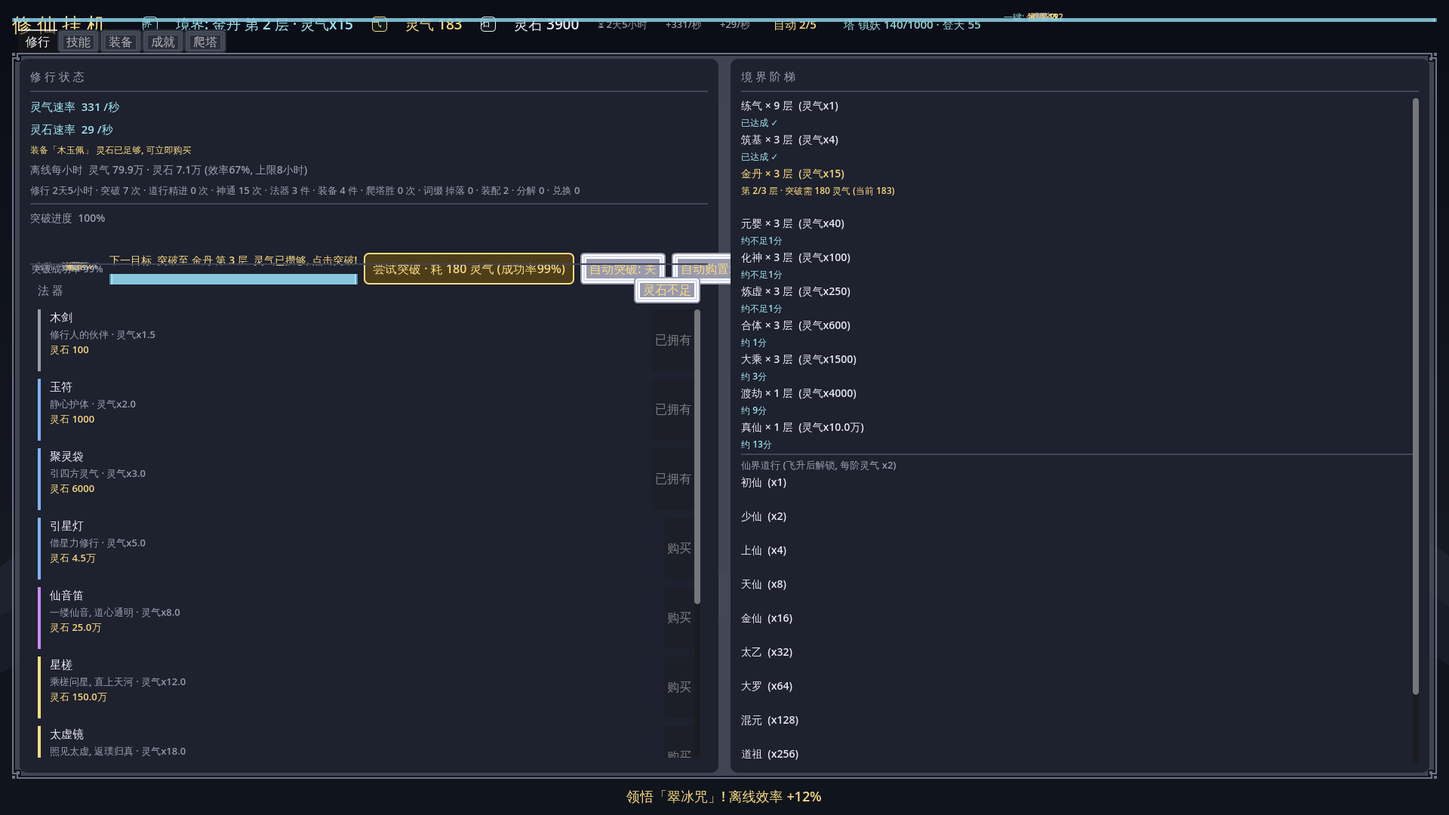
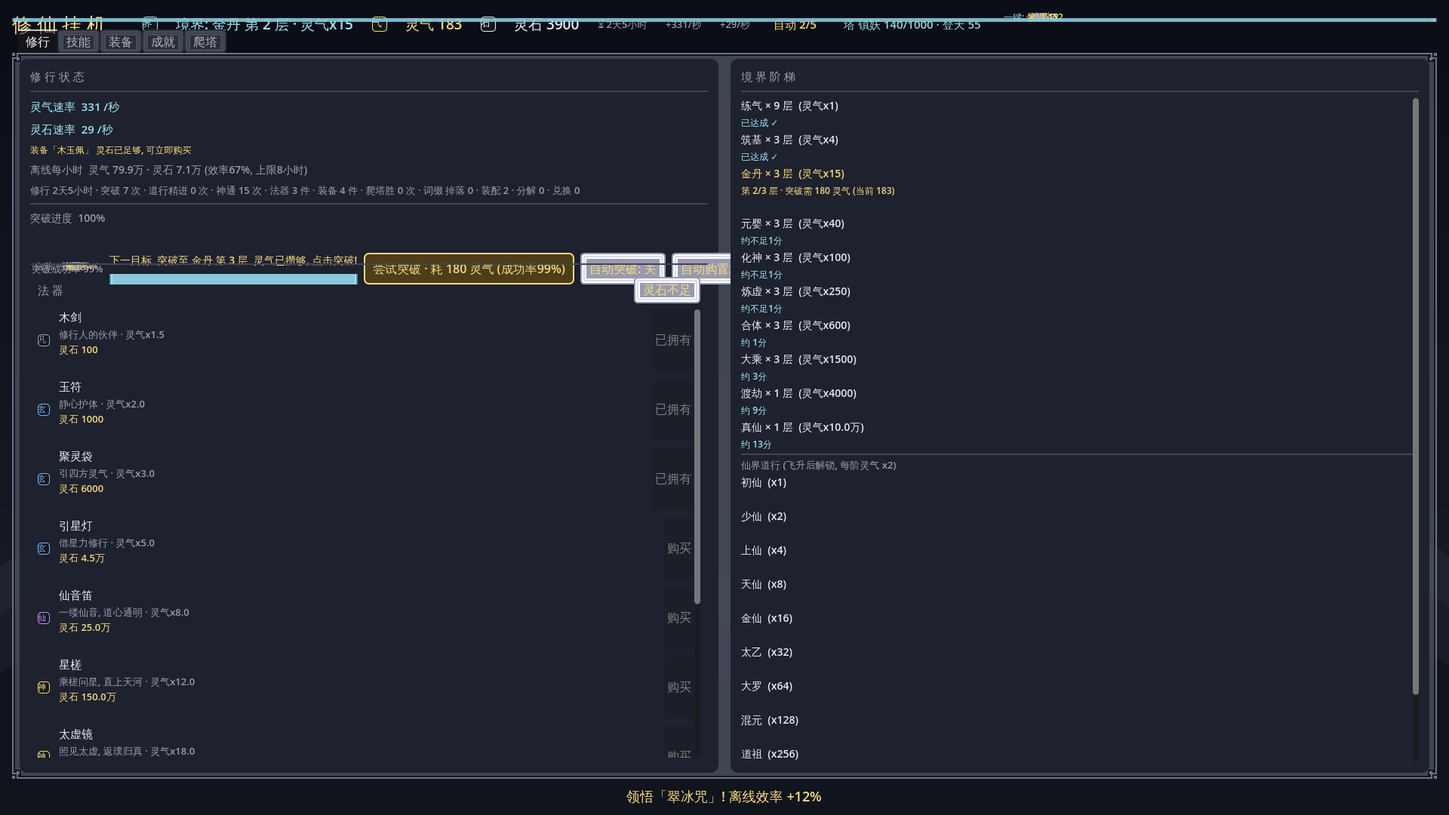
feat(打磨-138): 品质徽章 16px 单字徽章(凡~神) — 行首4px色条升级, 与顶栏资源图标同风格 tier_badge_char 数据接口(与tier_name首字同源); _add_tier_badge 单点构建 3处调用; 法器价格档 0/2/5/6 口径不变 selftest 10982/ui_test 3464/stress 646/冒烟 0 报错; Xvfb 5 张商店截图重跑入帧

diff --git a/README.md b/README.md
@@ -60,9 +60,9 @@ PROJECT_PLAN.md          # 项目计划
 
 ```bash
 ~/bin/godot --headless --path .            # 无头冒烟 (应无报错, 会一直挂机运行)
-~/bin/godot --headless --path . -s res://scripts/selftest.gd   # 全流程自测 (学习/购买/穿戴/冷却/存读档/倍率/数值曲线/成就/飞升后道行/装备/技能浮动灵气速率增量/神通爆发预览/一键神通/神通冷却完毕就绪事件/神通冷却进度比例/突破成功率tooltip预期成本/突破失败浮动预期成本/突破成功浮动新境界成功率/离线收益启动金色浮动/自动突破/自动购置/自动施展/自动领悟/自动系列状态汇总/自动系列开关启动提示/顶栏自动系列状态徽标/顶栏自动徽标点击直达/顶栏一键系列状态汇总徽标/一键汇总徽标段悬浮明细/挂机时长顶栏常显/主资源速率顶栏常显/灵石速率顶栏常显/下一目标渐变进度条/挂机时长悬停离线收益预估/自动购置按钮tooltip动态段/自动突破按钮tooltip动态段/自动施展自动领悟按钮tooltip动态段/顶栏主资源行悬停下一目标tooltip/一键挂机/一键挂机按钮tooltip动态段/顶栏挂机状态徽标点击直达/成就页只看未解锁筛选/M5-4镇妖塔通关态(称号+灵石100万+永久atk/def+15%增益, 守塔模式幂等/顶栏称号徽标/存档旧档兜底)/M5-1爬塔数据层(18特性/145怪物/镇妖塔1000层表)/M6-1 DIY装备词缀数据层(120词缀 6池x5品质x4变体+掉落概率表20桶)/M6-2 DIY词缀逻辑层(库存/装配/拆卸/分解/槽位升级/套装共鸣/属性公式接入/塔掉落结算/存档旧档兜底)/M6-3 DIY词缀UI数据层(评分/装配预览/收集成就/一键装配/分解全部/存档seen_affixes)/收集进度一览词缀类(五类+总计419/词缀只增不减)/塔战斗词缀掉落底部消息展示(打磨-94 affix_drop_text)/自动爬塔胜局汇总底部消息+会话统计状态行(打磨-95 auto_tower_last_text)/词缀材料系统(打磨-96 分解产出材料1+品质档/材料兑换指定池品质词缀保底获取/背包满普通自动入料/槽位升级消耗200材料/affix_best_variant_id/存档affix_materials旧档兜底)/背包容量成就解锁(打磨-97 bag_40百宝囊:曾入包满30格容量30->40/bag_expand配置派生态不存档/容量行tooltip动态段/成就进度比例/存档ach_done往返+旧档30兜底)/选中词缀评分Δ实时预览+评分小数显示修复(打磨-98 fmt_score<1e4两位小数>=1e4万档/affix_sel_delta_text只读接口:空槽增益与已装槽换装净增益取最大/无正增益与未选中空串/装备取前3件+等N件汇总)/一键强化槽位(打磨-99 affix_upgrade_all批量接口:道祖期批量3->4槽200材料/件/0变更幂等不消耗/未道祖期与材料不足与全满级与无拥有拒绝/结果结构count-upgraded-cost-materials前后)/奖励类特性结算接入(打磨-100 18特性全量:材料囊x2材料/幸运50%全奖励x2/不屈x1.2/词缀袋掉率+10%/富矿灵石x2, 材料掉落=1+怪物种mat_w整件入账, 会话材料累计+状态行材料段, 存档读档归零, 只读无副作用)/一键兑换(打磨-101 affix_exchange_all批量接口:材料连兑买不起或背包满为止复用affix_exchange真实路径/0可兑幂等不消耗/背包满中途停止/返回count-id-cost-materials前后/空池结构完整不崩溃/背包留1空只兑1件封顶)/登天梯500层后全部怪物默认魔化(打磨-102 get_endless_floor 500+非Boss层魔化口径同精英:数值x3+追加1层取模确定性特性+「魔化·」前缀+奖励x2/Boss层独立x10不叠魔化/500前旧口径不变)/登天梯里程碑宝箱保底高品质词缀(打磨-103 来源配置min_tier=稀有+affix_roll_drop钳制只升不降/其余来源旧口径不变/里程碑Boss层怪物卡tooltip展示保底段)/天怨特性登天梯HP生效(打磨-104 heaven_grudge仅无尽塔HP x(1+层数/400) 数据驱动/monster_stats幂等防tooltip二次叠乘/怪物卡tooltip天怨生效段)/战斗时长预估行(打磨-105 tower_rounds_line只读接口:ceil(怪HP/预估伤害)伤害取最不利0.9档/败预测追加本层战力不足/回合>1e12走fmt万档防溢出/剧毒-15%联动/道祖量级锚定/只读无副作用)/怪物卡tooltip材料掉落预估(打磨-106 掉落展示灵石材料词缀材料段展示位:tooltip追加奖励材料N行=向上取整stats mats与战斗结算同源/修tower_monster_stats幂等再算丢mats:stats字典保留species键+mats沿用已结算值/材料囊x2层幂等恒等/空记录mats=0不展示行/只读无副作用)/塔战斗胜利浮动提示(打磨-107 tower_win_float_text只读接口:入参try_tower_challenge结算字典,败局与缺win字段空串,段=塔名层怪名+灵石+材料+幸运不屈+每日首胜+词缀件数,0奖励无对应段/只读无副作用)/怪物种reward权重stone_w与affix_w结算接入(打磨-108 M5掉落差异化灵石与词缀段落地:stone_w乘层表灵石进tower_monster_stats stone首算叠+stats幂等沿用不二重/affix_w作词缀掉率base乘数affix_roll_drop有效掉率=来源base x affix_w + bonus_chance clamp 0..1/Boss无种层权重1.0旧口径兜底/怪物卡tooltip种掉落权重行)装备按评分排序数据层(打磨-109 M6规格装备列表按评分排序:equip_score_sort_order评分降序同分id升序确定性/单调性全表非增/词缀装配评分联动位置升/拆卸回退/默认状态序打磨-22口径不变/只读无副作用)/修行统计词缀段(打磨-110 stats_text追加词缀掉落装配分解兑换4段:埋点打磨-96/99/101已有展示位补齐/只读拼接无新存档字段/_load_stats兜底0/存档往返恒等/主场景统计行tooltip口径说明)/爬塔战力对比DEF段(打磨-111 M5规格玩家atk/def vs怪物DEF段:tower_power_def_line只读接口玩家DEF=player_def汇总剧毒不生效怪物DEF同源/双塔卡片战力对比行下12px DEF行/刷新键玩家DEF 0.5档)/换装对比战力评分Δ段(打磨-112 M6规格当前穿戴vs备选实时对比缺口:equip_swap_hint追加d_atk/d_def/score_d三段=新-旧atk/def池与equip_score差/灵气灵石攻击防御负数带负号0省略评分段恒带+0.00无变化信号/全无变化空text旧口径/只读无副作用)/爬塔战力构成tooltip(打磨-113 M5规格境界x功法x装备x塔专属加成构成展示位:GameData.tower_power_compose_tip只读接口五段构成境界基础x功法池x装备池含词缀x法器池x塔专属通关增益+套装共鸣/汇总行同源player_atk/def/剧毒只减有效ATK不入基础构成/功法装备法器池变化动态同步/共鸣x1.06触发/通关x1.15/境界40^1基础80档/飞升道祖进度17/只读连读无副作用)/镇妖塔通关大奖顶级传说词缀x3(打磨-114 M5规格一次性大奖顶级词缀x3落地:原神品口径M6落地后=最高档传说,GameData.tower_clear_affix_ids只读接口每池最高价值变体按价值降序取前3/try_tower_challenge首通1000层结算发放3件传说入包+背包满折算材料1+品质档/塔_clear_reward_text追加顶级传说词缀xN段+背包满折算材料段/胜利浮动与自动爬塔文案追加大奖词缀段/守塔幂等不重发/结果字典新增clear_reward_affixes+clear_reward_mat/旧档兼容)/登天梯里程碑Boss里程碑宝箱标记+胜利浮动宝箱段(打磨-115 M5规格每100层里程碑Boss+宝箱保底稀有+词缀展示位:try_tower_challenge结果字典新增is_milestone=登天梯100倍数boss胜局与drop_src=milestone同口径/塔win_float_text追加里程碑宝箱保底稀有+词缀段/仅登天梯生效镇妖塔与精英层与普通层与败局恒false/只读无副作用)/登天梯每日首胜奖励当日状态行(打磨-116 M5规格每日首胜奖励展示位:tower_daily_date==今日即已触发与结算分支同口径/tower_daily_first_line只读两态接口已触发明日再触发与未触发0.5x口径说明/tower_status_line已触发追加段未触发不追加/当日再胜新纪录不重复发放幂等/跨日日期非今日段消失可再触发/只读连读无副作用)/怪物卡tooltip属性偏向类型行(打磨-117 M5规格120怪物种stat_bias血牛狂攻铁壁均衡展示位:tower_monster_stats追加bias_cn/category_name字段stats字典携带幂等原始记录从怪物种解析Boss无种空串兜底/tower_monster_tip特性行后追加类型·偏向行仅数据层展示只读无副作用)/镇妖塔主题与最终Boss分层标记+tooltip分层行(打磨-118 M5规格25专属Boss20小x10+4主题x20+最终Boss镇妖塔主x50分层展示位:tower_boss_tier三态只读接口small/theme/final非Boss与登天梯里程碑Boss空串不展示/TOWER_BOSS_MULT_SMALL_THEME_FINAL常量单一来源与gen_data同口径数值已落表只展示不改数值/tower_monster_tip特性行后追加分层行空串不展示+name行追加主题Boss与最终Boss后缀小Boss无后缀防重复/只读无副作用)/怪物卡tooltip精英与魔化结构行(打磨-119 M5规格每10层精英数值x3掉落x2+登天梯500层后所有怪物默认魔化的结构奖励倍率展示位:数值与掉落已随层表结算只给口径说明,tower_struct_line只读接口双塔精英同结构魔化前缀+追加1额外特性+x3/x2与TOWER_ELITE_MULT_REWARD常量同源登天梯500+非Boss层恒魔化ENDLESS_DEMON_FLOOR/非精英与Boss层空串不叠/分层行后追加结构行只读无副作用)/怪物卡tooltip词缀掉落概率行(打磨-120 M6规格掉落来源普通5%精英20%Boss1~3件里程碑宝箱1~2件展示位缺口:结算口径affix_roll_drop已落地但tooltip无概率展示,tower_affix_drop_line只读接口=来源base x种affix_w+词缀袋+10%同表达式clamp 100%转1~N件/败局不掉词缀标注仅胜利/普通层百分比档精英base20%Boss100%1~3件里程碑100%1~2件/stats字典路径幂等恒等不丢/状态行tooltip词缀掉落口径说明)/双塔卡片下一里程碑行(打磨-121 M5规格每100层天阶里程碑进度展示位:tower_milestone_line只读接口距下个精英层/小Boss/主题Boss/最终Boss/登天梯里程碑Boss还有几层,本层即是标注就在本层,登天梯100倍数下一里程碑Boss+宝箱保底稀有+/镇妖塔通关守塔模式空串隐藏/双塔卡片回合预估行下12px里程碑行文本变化才刷空串隐藏/tooltip口径说明)/自动爬塔会话词缀段(打磨-122 挂机自动爬塔战斗掉落词缀会话累计展示位:_auto_tower_affixes会话累计内存态读档归零,状态行与auto_tower_session_text追加词缀N件段0不追加旧口径/通关大奖词缀另段不计入/刷新键并入会话材料词缀累计/状态行tooltip口径说明)/爬塔战力对比胜阈值缺口行(打磨-123 败预测时玩家不知需多少ATK才胜:tower_win_threshold_line只读接口,阈值=怪物ATK x 0.85与tower_power_line判定口径同源单点,缺口=阈值-当前有效ATK剧毒已计入,fmt_score口径<1e4两位小数防fmt int截断,弱玩家数据锚定镇妖塔第12层判定败缺口收窄功法/装备池变化动态恒等剧毒放大/登天梯同口径/只读连读恒定无副作用)/挑战按钮tooltip动态段(打磨-124 点击前悬停不知本层胜败预测与胜利结算内容:tower_challenge_tip只读接口=层标题+tower_power_line胜负预测+败预测追加tower_win_threshold_line阈值/缺口行/胜预测追加胜利结算预览段(灵石表值幸运不屈属结算随机不入预览+材料向上取整同怪物卡+词缀掉率同tower_affix_drop_line仅胜利结算+登天梯每日首胜0.5x口径+镇妖塔1000层首通一次性大奖口径未通关未发放态+剧毒怪战胜减攻警告),main.gd _tw_btn_tips缓存文本变化才刷)/自动爬塔开关tooltip会话统计段(打磨-125 挂机期间自动爬塔胜局/灵石/材料/词缀累计悬停展示位:开关tooltip动态段追加本次运行会话行=auto_tower_session_text单源恒等不二次拼接/0胜局显口径说明(内存态不持久化读档归零)防误读为断档/真实链路道祖自动双塔全胜文案随结算动态同步/只读连读恒定无副作用),主场景 冒烟 0 报错 回归 全过, main.gd _tw_auto_btn tooltip缓存文本变化才刷/双塔卡片下一里程碑ETA行(打磨-127 战斗节奏≤2秒/层时间预期:tower_milestone_eta只读接口=层距x本层预估回合[tower_rounds_line同源最不利0.9档]x2s/层,7天+封顶,败预测显战力不足提示,守塔模式/无下一里程碑空串,目标解析抽单点_tower_milestone_target与tower_milestone_line文案同源恒等/双塔卡片里程碑行下12px ETA行文本变化才刷/刷新键并入通关态感知守塔翻转/tooltip口径说明/动态同步升层剧毒强玩家), main.gd _tw_milestone_eta_labels双塔标签缓存/登天梯段进度(打磨-129 tower_endless_mile_ratio单点口径(层%100)/100,100倍数满条过层绕回<1钳制1层,1..99严格单调2000层扫描区间[0.01,1.0]只读连读无副作用)/顶栏双塔进度徽标(打磨-130 挂机扫视顶栏爬塔进度展示位:tower_progress_badge_text只读接口=塔镇妖N/1000(通关)+登天M,双塔均0层空串UI隐藏防空占位与tower_status_line同源字段/通关追加(通关)标注/登天跨档动态同步/tower_progress_badge_tip口径说明+点击直达/只读连读恒定无副作用/顶栏双塔进度徽标tooltip动态段(打磨-131 会话文案单源复用auto_tower_session_text:开关门控+会话空门控/开关关会话保留/只读无副作用)/自动爬塔会话登天梯新纪录累计段(打磨-132 挂机回来看会话不知本次运行创几个新纪录:_auto_tower_new_records次数+_auto_tower_new_best最高层内存态读档归零同灵石口径/_try_auto_tower按结算字典new_record字段累计仅登天梯胜局计入镇妖塔败局恒false/auto_tower_session_text追加新纪录N次最高第M层段0新纪录旧口径0胜局分支恒无段状态行单源复用自动覆盖/刷新键并入会话新纪录次数防漏刷/状态行tooltip口径说明)/自动爬塔会话里程碑宝箱累计段(打磨-133 挂机回来看会话不知本次运行触发几次里程碑宝箱:_auto_tower_milestones内存态读档归零同灵石口径/_try_auto_tower按结算字典is_milestone字段累计仅登天梯100倍数Boss胜局计入镇妖塔普通层败局恒false/auto_tower_session_text追加里程碑宝箱N次段0不追加旧口径段在词缀后新纪录前状态行单源复用自动覆盖/刷新键并入会话宝箱次数防漏刷/状态行tooltip口径说明), 10952 项, 退出码 0=通过)
+~/bin/godot --headless --path . -s res://scripts/selftest.gd   # 全流程自测 (学习/购买/穿戴/冷却/存读档/倍率/数值曲线/成就/飞升后道行/装备/技能浮动灵气速率增量/神通爆发预览/一键神通/神通冷却完毕就绪事件/神通冷却进度比例/突破成功率tooltip预期成本/突破失败浮动预期成本/突破成功浮动新境界成功率/离线收益启动金色浮动/自动突破/自动购置/自动施展/自动领悟/自动系列状态汇总/自动系列开关启动提示/顶栏自动系列状态徽标/顶栏自动徽标点击直达/顶栏一键系列状态汇总徽标/一键汇总徽标段悬浮明细/挂机时长顶栏常显/主资源速率顶栏常显/灵石速率顶栏常显/下一目标渐变进度条/挂机时长悬停离线收益预估/自动购置按钮tooltip动态段/自动突破按钮tooltip动态段/自动施展自动领悟按钮tooltip动态段/顶栏主资源行悬停下一目标tooltip/一键挂机/一键挂机按钮tooltip动态段/顶栏挂机状态徽标点击直达/成就页只看未解锁筛选/M5-4镇妖塔通关态(称号+灵石100万+永久atk/def+15%增益, 守塔模式幂等/顶栏称号徽标/存档旧档兜底)/M5-1爬塔数据层(18特性/145怪物/镇妖塔1000层表)/M6-1 DIY装备词缀数据层(120词缀 6池x5品质x4变体+掉落概率表20桶)/M6-2 DIY词缀逻辑层(库存/装配/拆卸/分解/槽位升级/套装共鸣/属性公式接入/塔掉落结算/存档旧档兜底)/M6-3 DIY词缀UI数据层(评分/装配预览/收集成就/一键装配/分解全部/存档seen_affixes)/收集进度一览词缀类(五类+总计419/词缀只增不减)/塔战斗词缀掉落底部消息展示(打磨-94 affix_drop_text)/自动爬塔胜局汇总底部消息+会话统计状态行(打磨-95 auto_tower_last_text)/词缀材料系统(打磨-96 分解产出材料1+品质档/材料兑换指定池品质词缀保底获取/背包满普通自动入料/槽位升级消耗200材料/affix_best_variant_id/存档affix_materials旧档兜底)/背包容量成就解锁(打磨-97 bag_40百宝囊:曾入包满30格容量30->40/bag_expand配置派生态不存档/容量行tooltip动态段/成就进度比例/存档ach_done往返+旧档30兜底)/选中词缀评分Δ实时预览+评分小数显示修复(打磨-98 fmt_score<1e4两位小数>=1e4万档/affix_sel_delta_text只读接口:空槽增益与已装槽换装净增益取最大/无正增益与未选中空串/装备取前3件+等N件汇总)/一键强化槽位(打磨-99 affix_upgrade_all批量接口:道祖期批量3->4槽200材料/件/0变更幂等不消耗/未道祖期与材料不足与全满级与无拥有拒绝/结果结构count-upgraded-cost-materials前后)/奖励类特性结算接入(打磨-100 18特性全量:材料囊x2材料/幸运50%全奖励x2/不屈x1.2/词缀袋掉率+10%/富矿灵石x2, 材料掉落=1+怪物种mat_w整件入账, 会话材料累计+状态行材料段, 存档读档归零, 只读无副作用)/一键兑换(打磨-101 affix_exchange_all批量接口:材料连兑买不起或背包满为止复用affix_exchange真实路径/0可兑幂等不消耗/背包满中途停止/返回count-id-cost-materials前后/空池结构完整不崩溃/背包留1空只兑1件封顶)/登天梯500层后全部怪物默认魔化(打磨-102 get_endless_floor 500+非Boss层魔化口径同精英:数值x3+追加1层取模确定性特性+「魔化·」前缀+奖励x2/Boss层独立x10不叠魔化/500前旧口径不变)/登天梯里程碑宝箱保底高品质词缀(打磨-103 来源配置min_tier=稀有+affix_roll_drop钳制只升不降/其余来源旧口径不变/里程碑Boss层怪物卡tooltip展示保底段)/天怨特性登天梯HP生效(打磨-104 heaven_grudge仅无尽塔HP x(1+层数/400) 数据驱动/monster_stats幂等防tooltip二次叠乘/怪物卡tooltip天怨生效段)/战斗时长预估行(打磨-105 tower_rounds_line只读接口:ceil(怪HP/预估伤害)伤害取最不利0.9档/败预测追加本层战力不足/回合>1e12走fmt万档防溢出/剧毒-15%联动/道祖量级锚定/只读无副作用)/怪物卡tooltip材料掉落预估(打磨-106 掉落展示灵石材料词缀材料段展示位:tooltip追加奖励材料N行=向上取整stats mats与战斗结算同源/修tower_monster_stats幂等再算丢mats:stats字典保留species键+mats沿用已结算值/材料囊x2层幂等恒等/空记录mats=0不展示行/只读无副作用)/塔战斗胜利浮动提示(打磨-107 tower_win_float_text只读接口:入参try_tower_challenge结算字典,败局与缺win字段空串,段=塔名层怪名+灵石+材料+幸运不屈+每日首胜+词缀件数,0奖励无对应段/只读无副作用)/怪物种reward权重stone_w与affix_w结算接入(打磨-108 M5掉落差异化灵石与词缀段落地:stone_w乘层表灵石进tower_monster_stats stone首算叠+stats幂等沿用不二重/affix_w作词缀掉率base乘数affix_roll_drop有效掉率=来源base x affix_w + bonus_chance clamp 0..1/Boss无种层权重1.0旧口径兜底/怪物卡tooltip种掉落权重行)装备按评分排序数据层(打磨-109 M6规格装备列表按评分排序:equip_score_sort_order评分降序同分id升序确定性/单调性全表非增/词缀装配评分联动位置升/拆卸回退/默认状态序打磨-22口径不变/只读无副作用)/修行统计词缀段(打磨-110 stats_text追加词缀掉落装配分解兑换4段:埋点打磨-96/99/101已有展示位补齐/只读拼接无新存档字段/_load_stats兜底0/存档往返恒等/主场景统计行tooltip口径说明)/爬塔战力对比DEF段(打磨-111 M5规格玩家atk/def vs怪物DEF段:tower_power_def_line只读接口玩家DEF=player_def汇总剧毒不生效怪物DEF同源/双塔卡片战力对比行下12px DEF行/刷新键玩家DEF 0.5档)/换装对比战力评分Δ段(打磨-112 M6规格当前穿戴vs备选实时对比缺口:equip_swap_hint追加d_atk/d_def/score_d三段=新-旧atk/def池与equip_score差/灵气灵石攻击防御负数带负号0省略评分段恒带+0.00无变化信号/全无变化空text旧口径/只读无副作用)/爬塔战力构成tooltip(打磨-113 M5规格境界x功法x装备x塔专属加成构成展示位:GameData.tower_power_compose_tip只读接口五段构成境界基础x功法池x装备池含词缀x法器池x塔专属通关增益+套装共鸣/汇总行同源player_atk/def/剧毒只减有效ATK不入基础构成/功法装备法器池变化动态同步/共鸣x1.06触发/通关x1.15/境界40^1基础80档/飞升道祖进度17/只读连读无副作用)/镇妖塔通关大奖顶级传说词缀x3(打磨-114 M5规格一次性大奖顶级词缀x3落地:原神品口径M6落地后=最高档传说,GameData.tower_clear_affix_ids只读接口每池最高价值变体按价值降序取前3/try_tower_challenge首通1000层结算发放3件传说入包+背包满折算材料1+品质档/塔_clear_reward_text追加顶级传说词缀xN段+背包满折算材料段/胜利浮动与自动爬塔文案追加大奖词缀段/守塔幂等不重发/结果字典新增clear_reward_affixes+clear_reward_mat/旧档兼容)/登天梯里程碑Boss里程碑宝箱标记+胜利浮动宝箱段(打磨-115 M5规格每100层里程碑Boss+宝箱保底稀有+词缀展示位:try_tower_challenge结果字典新增is_milestone=登天梯100倍数boss胜局与drop_src=milestone同口径/塔win_float_text追加里程碑宝箱保底稀有+词缀段/仅登天梯生效镇妖塔与精英层与普通层与败局恒false/只读无副作用)/登天梯每日首胜奖励当日状态行(打磨-116 M5规格每日首胜奖励展示位:tower_daily_date==今日即已触发与结算分支同口径/tower_daily_first_line只读两态接口已触发明日再触发与未触发0.5x口径说明/tower_status_line已触发追加段未触发不追加/当日再胜新纪录不重复发放幂等/跨日日期非今日段消失可再触发/只读连读无副作用)/怪物卡tooltip属性偏向类型行(打磨-117 M5规格120怪物种stat_bias血牛狂攻铁壁均衡展示位:tower_monster_stats追加bias_cn/category_name字段stats字典携带幂等原始记录从怪物种解析Boss无种空串兜底/tower_monster_tip特性行后追加类型·偏向行仅数据层展示只读无副作用)/镇妖塔主题与最终Boss分层标记+tooltip分层行(打磨-118 M5规格25专属Boss20小x10+4主题x20+最终Boss镇妖塔主x50分层展示位:tower_boss_tier三态只读接口small/theme/final非Boss与登天梯里程碑Boss空串不展示/TOWER_BOSS_MULT_SMALL_THEME_FINAL常量单一来源与gen_data同口径数值已落表只展示不改数值/tower_monster_tip特性行后追加分层行空串不展示+name行追加主题Boss与最终Boss后缀小Boss无后缀防重复/只读无副作用)/怪物卡tooltip精英与魔化结构行(打磨-119 M5规格每10层精英数值x3掉落x2+登天梯500层后所有怪物默认魔化的结构奖励倍率展示位:数值与掉落已随层表结算只给口径说明,tower_struct_line只读接口双塔精英同结构魔化前缀+追加1额外特性+x3/x2与TOWER_ELITE_MULT_REWARD常量同源登天梯500+非Boss层恒魔化ENDLESS_DEMON_FLOOR/非精英与Boss层空串不叠/分层行后追加结构行只读无副作用)/怪物卡tooltip词缀掉落概率行(打磨-120 M6规格掉落来源普通5%精英20%Boss1~3件里程碑宝箱1~2件展示位缺口:结算口径affix_roll_drop已落地但tooltip无概率展示,tower_affix_drop_line只读接口=来源base x种affix_w+词缀袋+10%同表达式clamp 100%转1~N件/败局不掉词缀标注仅胜利/普通层百分比档精英base20%Boss100%1~3件里程碑100%1~2件/stats字典路径幂等恒等不丢/状态行tooltip词缀掉落口径说明)/双塔卡片下一里程碑行(打磨-121 M5规格每100层天阶里程碑进度展示位:tower_milestone_line只读接口距下个精英层/小Boss/主题Boss/最终Boss/登天梯里程碑Boss还有几层,本层即是标注就在本层,登天梯100倍数下一里程碑Boss+宝箱保底稀有+/镇妖塔通关守塔模式空串隐藏/双塔卡片回合预估行下12px里程碑行文本变化才刷空串隐藏/tooltip口径说明)/自动爬塔会话词缀段(打磨-122 挂机自动爬塔战斗掉落词缀会话累计展示位:_auto_tower_affixes会话累计内存态读档归零,状态行与auto_tower_session_text追加词缀N件段0不追加旧口径/通关大奖词缀另段不计入/刷新键并入会话材料词缀累计/状态行tooltip口径说明)/爬塔战力对比胜阈值缺口行(打磨-123 败预测时玩家不知需多少ATK才胜:tower_win_threshold_line只读接口,阈值=怪物ATK x 0.85与tower_power_line判定口径同源单点,缺口=阈值-当前有效ATK剧毒已计入,fmt_score口径<1e4两位小数防fmt int截断,弱玩家数据锚定镇妖塔第12层判定败缺口收窄功法/装备池变化动态恒等剧毒放大/登天梯同口径/只读连读恒定无副作用)/挑战按钮tooltip动态段(打磨-124 点击前悬停不知本层胜败预测与胜利结算内容:tower_challenge_tip只读接口=层标题+tower_power_line胜负预测+败预测追加tower_win_threshold_line阈值/缺口行/胜预测追加胜利结算预览段(灵石表值幸运不屈属结算随机不入预览+材料向上取整同怪物卡+词缀掉率同tower_affix_drop_line仅胜利结算+登天梯每日首胜0.5x口径+镇妖塔1000层首通一次性大奖口径未通关未发放态+剧毒怪战胜减攻警告),main.gd _tw_btn_tips缓存文本变化才刷)/自动爬塔开关tooltip会话统计段(打磨-125 挂机期间自动爬塔胜局/灵石/材料/词缀累计悬停展示位:开关tooltip动态段追加本次运行会话行=auto_tower_session_text单源恒等不二次拼接/0胜局显口径说明(内存态不持久化读档归零)防误读为断档/真实链路道祖自动双塔全胜文案随结算动态同步/只读连读恒定无副作用),主场景 冒烟 0 报错 回归 全过, main.gd _tw_auto_btn tooltip缓存文本变化才刷/双塔卡片下一里程碑ETA行(打磨-127 战斗节奏≤2秒/层时间预期:tower_milestone_eta只读接口=层距x本层预估回合[tower_rounds_line同源最不利0.9档]x2s/层,7天+封顶,败预测显战力不足提示,守塔模式/无下一里程碑空串,目标解析抽单点_tower_milestone_target与tower_milestone_line文案同源恒等/双塔卡片里程碑行下12px ETA行文本变化才刷/刷新键并入通关态感知守塔翻转/tooltip口径说明/动态同步升层剧毒强玩家), main.gd _tw_milestone_eta_labels双塔标签缓存/登天梯段进度(打磨-129 tower_endless_mile_ratio单点口径(层%100)/100,100倍数满条过层绕回<1钳制1层,1..99严格单调2000层扫描区间[0.01,1.0]只读连读无副作用)/顶栏双塔进度徽标(打磨-130 挂机扫视顶栏爬塔进度展示位:tower_progress_badge_text只读接口=塔镇妖N/1000(通关)+登天M,双塔均0层空串UI隐藏防空占位与tower_status_line同源字段/通关追加(通关)标注/登天跨档动态同步/tower_progress_badge_tip口径说明+点击直达/只读连读恒定无副作用/顶栏双塔进度徽标tooltip动态段(打磨-131 会话文案单源复用auto_tower_session_text:开关门控+会话空门控/开关关会话保留/只读无副作用)/自动爬塔会话登天梯新纪录累计段(打磨-132 挂机回来看会话不知本次运行创几个新纪录:_auto_tower_new_records次数+_auto_tower_new_best最高层内存态读档归零同灵石口径/_try_auto_tower按结算字典new_record字段累计仅登天梯胜局计入镇妖塔败局恒false/auto_tower_session_text追加新纪录N次最高第M层段0新纪录旧口径0胜局分支恒无段状态行单源复用自动覆盖/刷新键并入会话新纪录次数防漏刷/状态行tooltip口径说明)/自动爬塔会话里程碑宝箱累计段(打磨-133 挂机回来看会话不知本次运行触发几次里程碑宝箱:_auto_tower_milestones内存态读档归零同灵石口径/_try_auto_tower按结算字典is_milestone字段累计仅登天梯100倍数Boss胜局计入镇妖塔普通层败局恒false/auto_tower_session_text追加里程碑宝箱N次段0不追加旧口径段在词缀后新纪录前状态行单源复用自动覆盖/刷新键并入会话宝箱次数防漏刷/状态行tooltip口径说明), 10982 项, 退出码 0=通过)
 ~/bin/godot --headless --path . -s res://scripts/stress_test.gd  # 数值曲线压力测试 (全境界/全品质梯度/解锁门槛一致性/后期溢出检查/M6-4 DIY词缀数值平衡[词缀曲线vs商店装备/满配20槽溢出/共鸣x1.4封顶/成功率离线clamp/掉落桶品质曲线/槽位升级材料扣减(打磨-96)/怪物种reward权重受控(打磨-108 120种stone_w 0.8~1.4与affix_w 0.2~0.8范围断言+同种跨层1.06指数灵石曲线单调有限)], 646 项, CI 可跑, 退出码 0=通过)
-~/bin/godot --headless --path . res://scenes/ui_test.tscn  # UI 断言 (成就进度条/收集条/品质色/一键系列/顶栏灵石可购进度/灵石行内联下一件可购/法器属性构成/装备/技能浮动灵气速率增量/神通爆发预览/单个神通施展浮动/一键神通/神通冷却完毕就绪浮动/神通冷却进度条/神通冷却完毕收口动画+按钮微光/一键施展浮动爆发总量/单个神通施展浮动爆发总量/冷却完毕就绪浮动爆发总量/突破成功率tooltip预期成本/突破失败浮动预期成本/突破成功浮动新境界成功率/离线收益启动金色浮动/自动突破/自动购置/自动施展/自动领悟/自动系列状态汇总/自动系列汇总行点击直达/自动系列开关启动提示/顶栏自动系列状态徽标/顶栏自动徽标点击直达/顶栏一键系列状态汇总徽标/一键汇总徽标段悬浮明细/挂机时长顶栏常显/主资源速率顶栏常显/灵石速率顶栏常显/下一目标渐变进度条/顶栏进度条点击直达/挂机时长悬停离线收益预估/自动购置按钮tooltip动态段/自动突破按钮tooltip动态段/自动施展自动领悟按钮tooltip动态段/顶栏主资源行悬停下一目标tooltip/一键挂机/一键挂机按钮tooltip动态段/顶栏挂机状态徽标点击直达/成就页只看未解锁筛选/M5-4镇妖塔通关态(称号徽标显隐/tooltip/点击直达爬塔页tab4+镇妖塔卡片金边高亮/未通关不发放/首通发放灵石大奖/守塔幂等/状态行称号)/M6-3 DIY词缀UI(词缀背包抽屉/槽位chips装配拆卸换装/评分行/一键最佳装配/分解全部/选中金边/tooltip评分行)/收集进度一览词缀类(6条mini进度条/总419/词缀点击直达装备页)/塔战斗词缀掉落底部消息展示(打磨-94 胜局boss必掉词缀消息段/败局无段)/自动爬塔胜局汇总底部消息+会话统计状态行(打磨-95 挂机期间胜局静默补位/变更事件节流/会话不持久化)/词缀材料兑换面板(打磨-96 材料行/6池x5品质筛选/兑换按钮文案节流/兑换入包最高价值变体/材料不足与背包满拒绝/toggle取消选中)/背包容量成就解锁UI(打磨-97 容量行30->40动态文案/tooltip未解锁还差N种与已解锁两态/成就解锁ach_done/40满拒绝/节流稳定/收尾回30)/选中词缀评分Δ预览行(打磨-98 未选中隐藏/空槽增益/换装取最大/全满换装净增益0.094精确/全平负隐藏/节流/只读无副作用/评分断言fmt_score适配)/一键强化槽位按钮(打磨-99 道祖期批量3->4:按钮节点+tooltip成本道祖期幂等口径/文案需道祖期·材料不足两档·xN计数/点击升4槽+扣200+chips重建4+底部消息+浮动/满级文案同步/再点幂等0变更不浮动/主循环文案同步/收尾干净基准)/一键兑换按钮(打磨-101 材料连兑买不起或背包满为止:按钮节点+tooltip连兑背包满幂等口径/材料0不足·x2计数文案/点击兑2件入包+扣50余20+底部消息+浮动/材料25 x1文案/背包满拒绝0件不扣不浮动/未选池文案/收尾干净基准)/登天梯500层后默认魔化(打磨-102 卡片副标题魔化口径/499层无魔化前缀/500层里程碑Boss标记不叠魔化/501层普通层怪物卡魔化前缀+战力对比按魔化数值预测败/弱玩家败停留无消耗/强玩家飞升道祖胜推进502+奖励+统计/502层恒魔化/收尾干净基准)/登天梯里程碑宝箱保底(打磨-103 卡片副标题宝箱口径/里程碑Boss层怪物卡tooltip含保底稀有+段同输入恒等/精英层无宝箱段/强玩家100层里程碑Boss胜局词缀入包品质恒>=稀有/收尾干净基准)/战斗时长预估行UI(打磨-105 双塔卡片怪物卡与战力对比间12px预估行:标签节点双塔齐全/文案=tower_rounds_line接口恒等/败预测追加本层战力不足与胜预测无后缀/回合+伤害预估段/升层动态同步/剧毒接口恒等/同态节流无副作用/收尾干净基准)/怪物卡tooltip材料预估行UI(打磨-106 双塔怪物卡tooltip含奖励材料N行=向上取整stats mats/tooltip=接口同输入恒等stats字典路径材料行不丢/登天梯同口径/同态节流无副作用/收尾干净基准)/塔战斗胜利浮动提示UI(打磨-107 手动挑战胜利居中绿色浮动:标签节点/第50层小Boss数据锚定/弱玩家恒败不弹浮动+败消息保留/强玩家道祖恒胜计数+1+文案前缀塔名层怪名+胜利+灵石段+词缀件数段+Boss层无材料段+可见+居中y段/收尾词缀清零防污染)/怪物种reward权重tooltip展示UI(打磨-108 双塔怪物卡tooltip含种掉落权重行=接口恒等stats字典路径权重行不丢/有怪物种层灵石x1.255词缀x0.630展示/Boss层权重1.0不展示/同态节流无副作用/收尾干净基准), scene 模式带 autoload装备按评分排序开关UI(打磨-109 装备页品质筛选行尾按评分排序按钮:开关/评分降序首行amulet_6_3同分id升序/末行boot_0_0/全表非增单调/筛选叠加武器首可见行weapon_6_3/词缀装配评分升行位上升/同态节流无统计副作用/开关切换无资源统计副作用/收尾关态干净基准)/修行统计词缀段UI(打磨-110 统计行文本=stats_text接口恒等含词缀4段/tooltip口径行/埋点递增_refresh同步/同态节流无副作用/收尾干净基准)/爬塔战力对比DEF行UI(打磨-111 双塔卡片战力对比行下12px DEF行:节点双塔齐全/文案=tower_power_def_line接口恒等/判定口径说明段/tooltip口径/剧毒ATK变DEF不变/飞升玩家DEF变化动态同步/复位后基准重捕获/升精英层怪物DEF动态同步/同态节流无副作用/收尾干净基准)/爬塔战力构成tooltip UI(打磨-113 战力对比行悬停五段构成:双塔tooltip=判定口径段+构成段拼接恒等/剧毒态判定口径段切减成口径/剧毒仅汇总行追加标注基础构成段不变/同态节流无副作用/收尾干净基准)/镇妖塔通关大奖顶级传说词缀UI(打磨-114 通关态段:大奖ids 3件全传说/首通发放3件传说入包与期望ids恒等/未背包满折算材料0/大奖文案含顶级传说词缀x3段/胜利浮动含大奖词缀段/守塔再胜不重发幂等/收尾清词缀残留防污染后续段)/登天梯里程碑Boss宝箱标记+胜利底部消息浮动宝箱段UI(打磨-115 怪物卡tag追加⚑Boss·里程碑宝箱仅登天梯100倍数boss层:100层含宝箱/101层普通层与镇妖塔不含/强玩家100层胜底部消息+浮动含里程碑宝箱保底稀有+段/101层胜无宝箱段/弱玩家败局不弹浮动/同态节流无副作用/收尾干净基准)/登天梯每日首胜当日状态行UI(打磨-116 爬塔页状态行追加已触发段:未触发态无段+文本=tower_status_line恒等/手动模拟当日触发态刷新键变化自动追加段/弱玩家第15层恒败败局不触发日期不变状态行保持/跨日日期=昨日段消失/状态行tooltip含每日首胜0.5x口径说明/同态节流无统计副作用/收尾干净基准防污染)/怪物卡tooltip属性偏向类型行UI(打磨-117 怪物卡tooltip含类型·偏向行仅数据层:镇妖塔第1层m41虫群·均衡型tooltip含偏向行+含偏向名/tooltip=接口同输入恒等stats字典路径不丢/登天梯第5层同口径恒等/Boss层镇妖塔50层无种无偏向行/同态节流无统计副作用/收尾干净基准)/镇妖塔主题与最终Boss卡片标记UI(打磨-118 卡片tag分层标记:第1层普通层无标记无分层行/第100层主题Boss卡片tag⚑主题Boss+名万幻妖殿主数据锚定+tooltip分层行/第50层小Boss tag恒⚑Boss旧口径+tooltip小Boss分层行/通关守塔模式最终Boss tag⚑最终Boss·镇妖塔主+tooltip最终Boss分层行/登天梯100层里程碑Boss不叠分层标记无分层行/状态行tooltip含分层口径/同态节流无统计副作用/收尾干净基准)/怪物卡tooltip精英与魔化结构行UI(打磨-119 结构行展示位:镇妖塔第1层普通层无精英标记无结构行/第10层精英卡片tag含★精英+魔化·前缀+tooltip含精英结构行=接口恒等/登天梯第510层魔化tooltip含魔化结构行=接口恒等/499层普通层无魔化前缀无结构行/500层里程碑Boss无结构行不叠/状态行tooltip含精英魔化口径/同态节流无统计副作用/收尾干净基准)/怪物卡tooltip词缀掉落概率行UI(打磨-120 掉落概率行展示位:普通层tooltip含掉率行=接口恒等+仅胜利口径/精英层含base20%行/小Boss100%1~3件段/登天梯里程碑Boss100%1~2件段/stats字典路径幂等恒等/状态行tooltip含词缀掉落口径/同态节流无副作用/收尾干净基准)/双塔卡片下一里程碑行UI(打磨-121 里程碑进度展示位:双塔卡片回合预估行下12px里程碑行/节点双塔齐全+基准文案=tower_milestone_line接口恒等含层数+余量/镇妖塔精英本层就在标注/登天梯100层下一=200层动态同步/镇妖塔通关守塔模式隐藏/tooltip口径说明/同态节流无统计副作用/收尾干净基准)/自动爬塔会话词缀段UI(打磨-122 状态行会话段词缀累计:初始0胜局无会话段/手动会话态状态行含词缀3件=auto_tower_session_text恒等/0词缀无词缀段旧口径/状态行tooltip含会话词缀口径大奖另段/同会话态节流无资源统计副作用/收尾干净基准)/爬塔战力对比胜阈值缺口行UI(打磨-123 败预测阈值行展示:双塔阈值行节点齐全/弱玩家镇妖塔第12层判定败数据锚定+登天梯第1层判定胜一败一胜双向/败预测行可见=接口恒等+胜预测行隐藏/阈值缺口数值段精确=怪物ATK x 0.85与缺口fmt_score口径/升精英层20层动态同步/剧毒缺口放大动态同步/tooltip口径+提升路径/强玩家胜预测双塔隐藏/同态节流无统计副作用/收尾干净基准)/挑战按钮tooltip动态段UI(打磨-124 点击前悬停胜败预测+胜利结算预览:双塔挑战按钮tooltip=tower_challenge_tip接口恒等/弱玩家镇妖塔第12层判定败+登天梯第1层判定胜一败一胜双向/败预测tooltip=层标题+预测败+tower_win_threshold_line阈值缺口行无结算预览/胜预测结算预览段精确=灵石表值+材料向上取整+词缀掉率=tower_affix_drop_line恒等+每日首胜未触发态+剧毒警告段恒等+无幸运不屈倍率段/升精英层20层动态同步/同态节流无资源统计副作用/收尾干净基准)/自动爬塔开关tooltip会话统计段UI(打磨-125 开关悬停会话展示位:0胜局tooltip含口径说明段=静态前缀+接口恒等/手动会话态tooltip含自动胜2场+材料+词缀四累计=接口恒等/0词缀无词缀段旧口径/双塔卡片下一里程碑ETA行UI(打磨-127 时间预期展示位:双塔ETA行节点齐全/弱玩家镇妖塔2层败预测战力不足提示=接口恒等+登天梯1层胜预测含下一里程碑ETA约99层段一败一胜双向/升层20层与登天梯100层败预测动态同步/剧毒态有效ATK降成x0.85 ETA行=接口恒等动态同步/tooltip含估算口径+7天封顶+不改判定说明/强玩家飞升道祖登天梯100层胜预测ETA行=接口恒等未封顶/镇妖塔通关守塔模式ETA行隐藏/同态节流无统计副作用/收尾干净基准)/顶栏双塔进度徽标UI(打磨-130 挂机扫视顶栏爬塔进度展示位:节点存在+同父顶栏+青色字色+手型光标+青色圆角底/初始双塔均0隐藏无热区/仅镇妖层·仅登天纪录·双塔并排·通关追加(通关)标注文案=接口恒等/tooltip=接口恒等含双塔口径+点击直达爬塔页/升层动态同步/点击切爬塔页tab4+状态行金边高亮2px+自动恢复/点击无塔统计副作用/同态节流无统计副作用/收尾双塔归零徽标隐藏/顶栏双塔进度徽标tooltip动态段UI(打磨-131 初始会话空+关开关tooltip=静态前缀/会话胜局态开开关_refresh动态同步含四累计=静态+接口恒等/败局清零无段旧口径/开关关段消失会话保留/回开恢复/同态节流无副作用/收尾双塔归零隐藏tooltip空)/自动爬塔会话新纪录累计段UI(打磨-132 状态行会话段新纪录累计展示位:初始0胜局状态行无会话段=接口恒等/会话胜局态新纪录2次最高88_refresh动态同步状态行含段单源恒等/0新纪录无段旧口径/同态节流无统计副作用/收尾状态行=接口恒等干净基准)/自动爬塔会话里程碑宝箱累计段UI(打磨-133 状态行会话段里程碑宝箱累计展示位:初始0胜局状态行无会话段=接口恒等/会话胜局态宝箱3次_refresh动态同步状态行含宝箱段+新纪录段单源恒等/0宝箱无段旧口径/同态节流无统计副作用/状态行tooltip含宝箱段口径/收尾干净基准)/各页大容器frost面板纹理换皮UI(打磨-135b 5页大容器9-slice面板底panel_frame_frost.png:5页StyleBoxTexture+纹理路径+9-slice边距+modulate深色仙侠口径/页内容布局偏移不变x5/技能行卡片仍StyleBoxFlat行高亮金框口径不变/Tab切换0..4往返功能不变/收尾恢复成就页),词缀背包格btn_secondary 9-slice换皮UI(打磨-135c-2 词缀格未选中btn_secondary.png 9-slice纹理底:四态齐全+9-slice边距非0+三态同源纹理状态由modulate区分/悬停提亮与按下压暗区分/深色仙侠底b>r口径/flat保留/选中金边M6-3口径边框2/残留flat排查:徽标族+段热区+顶栏进度条底+收集行+一键挂机flat有意保留清单断言),,进度条族9-slice换皮UI(打磨-135d 7族进度条 bar 底+填充 换 9-slice 纹理:顶栏goalbar 5px/突破条 14px/冷却条 6px x24/双塔 10px x2/收集mini 6px x6/成就 6px xN:底=bar_track.png 9-slice 裁实心带(垂直0纯拉伸防细条压扁/Xvfb实测 5-14px 全完整)+水平边距4保端倒角+modulate青灰暗调/填充=bar_fill.png 9-slice 裁亮带+modulate金青档逻辑不变/7族底纹理路径+裁带region+边距恒等/填充纹理+modulate青档/goalbar攒满动态满条+modulate不变/同态节流无统计副作用/收尾复原0填充),顶栏资源图标程序化单字徽章UI(打磨-136 顶栏 3 行 前 插 程序化 单字 徽章 [零素材 零许可风险]: 界=青/气=金/石=白 3 枚 20x20 圆角 深底 细边 Panel 壳+13px 单字, 与 顶栏 行 字色 语义 同源, 纯装饰 无热区 mouse_filter IGNORE 无 tooltip, 主资源 徽章 字符 随 飞升 翻转 气->道 [仅 翻转 重写 挂机 恒定], 同父 顶栏 HBox 顺序 在行 前 口径 保持/收尾 复原; Xvfb 商店截图 像素 入帧 复核 3 徽章 清晰 无 压扁), 2783 项, 退出码 0=通过)
+~/bin/godot --headless --path . res://scenes/ui_test.tscn  # UI 断言 (成就进度条/收集条/品质色/一键系列/顶栏灵石可购进度/灵石行内联下一件可购/法器属性构成/装备/技能浮动灵气速率增量/神通爆发预览/单个神通施展浮动/一键神通/神通冷却完毕就绪浮动/神通冷却进度条/神通冷却完毕收口动画+按钮微光/一键施展浮动爆发总量/单个神通施展浮动爆发总量/冷却完毕就绪浮动爆发总量/突破成功率tooltip预期成本/突破失败浮动预期成本/突破成功浮动新境界成功率/离线收益启动金色浮动/自动突破/自动购置/自动施展/自动领悟/自动系列状态汇总/自动系列汇总行点击直达/自动系列开关启动提示/顶栏自动系列状态徽标/顶栏自动徽标点击直达/顶栏一键系列状态汇总徽标/一键汇总徽标段悬浮明细/挂机时长顶栏常显/主资源速率顶栏常显/灵石速率顶栏常显/下一目标渐变进度条/顶栏进度条点击直达/挂机时长悬停离线收益预估/自动购置按钮tooltip动态段/自动突破按钮tooltip动态段/自动施展自动领悟按钮tooltip动态段/顶栏主资源行悬停下一目标tooltip/一键挂机/一键挂机按钮tooltip动态段/顶栏挂机状态徽标点击直达/成就页只看未解锁筛选/M5-4镇妖塔通关态(称号徽标显隐/tooltip/点击直达爬塔页tab4+镇妖塔卡片金边高亮/未通关不发放/首通发放灵石大奖/守塔幂等/状态行称号)/M6-3 DIY词缀UI(词缀背包抽屉/槽位chips装配拆卸换装/评分行/一键最佳装配/分解全部/选中金边/tooltip评分行)/收集进度一览词缀类(6条mini进度条/总419/词缀点击直达装备页)/塔战斗词缀掉落底部消息展示(打磨-94 胜局boss必掉词缀消息段/败局无段)/自动爬塔胜局汇总底部消息+会话统计状态行(打磨-95 挂机期间胜局静默补位/变更事件节流/会话不持久化)/词缀材料兑换面板(打磨-96 材料行/6池x5品质筛选/兑换按钮文案节流/兑换入包最高价值变体/材料不足与背包满拒绝/toggle取消选中)/背包容量成就解锁UI(打磨-97 容量行30->40动态文案/tooltip未解锁还差N种与已解锁两态/成就解锁ach_done/40满拒绝/节流稳定/收尾回30)/选中词缀评分Δ预览行(打磨-98 未选中隐藏/空槽增益/换装取最大/全满换装净增益0.094精确/全平负隐藏/节流/只读无副作用/评分断言fmt_score适配)/一键强化槽位按钮(打磨-99 道祖期批量3->4:按钮节点+tooltip成本道祖期幂等口径/文案需道祖期·材料不足两档·xN计数/点击升4槽+扣200+chips重建4+底部消息+浮动/满级文案同步/再点幂等0变更不浮动/主循环文案同步/收尾干净基准)/一键兑换按钮(打磨-101 材料连兑买不起或背包满为止:按钮节点+tooltip连兑背包满幂等口径/材料0不足·x2计数文案/点击兑2件入包+扣50余20+底部消息+浮动/材料25 x1文案/背包满拒绝0件不扣不浮动/未选池文案/收尾干净基准)/登天梯500层后默认魔化(打磨-102 卡片副标题魔化口径/499层无魔化前缀/500层里程碑Boss标记不叠魔化/501层普通层怪物卡魔化前缀+战力对比按魔化数值预测败/弱玩家败停留无消耗/强玩家飞升道祖胜推进502+奖励+统计/502层恒魔化/收尾干净基准)/登天梯里程碑宝箱保底(打磨-103 卡片副标题宝箱口径/里程碑Boss层怪物卡tooltip含保底稀有+段同输入恒等/精英层无宝箱段/强玩家100层里程碑Boss胜局词缀入包品质恒>=稀有/收尾干净基准)/战斗时长预估行UI(打磨-105 双塔卡片怪物卡与战力对比间12px预估行:标签节点双塔齐全/文案=tower_rounds_line接口恒等/败预测追加本层战力不足与胜预测无后缀/回合+伤害预估段/升层动态同步/剧毒接口恒等/同态节流无副作用/收尾干净基准)/怪物卡tooltip材料预估行UI(打磨-106 双塔怪物卡tooltip含奖励材料N行=向上取整stats mats/tooltip=接口同输入恒等stats字典路径材料行不丢/登天梯同口径/同态节流无副作用/收尾干净基准)/塔战斗胜利浮动提示UI(打磨-107 手动挑战胜利居中绿色浮动:标签节点/第50层小Boss数据锚定/弱玩家恒败不弹浮动+败消息保留/强玩家道祖恒胜计数+1+文案前缀塔名层怪名+胜利+灵石段+词缀件数段+Boss层无材料段+可见+居中y段/收尾词缀清零防污染)/怪物种reward权重tooltip展示UI(打磨-108 双塔怪物卡tooltip含种掉落权重行=接口恒等stats字典路径权重行不丢/有怪物种层灵石x1.255词缀x0.630展示/Boss层权重1.0不展示/同态节流无副作用/收尾干净基准), scene 模式带 autoload装备按评分排序开关UI(打磨-109 装备页品质筛选行尾按评分排序按钮:开关/评分降序首行amulet_6_3同分id升序/末行boot_0_0/全表非增单调/筛选叠加武器首可见行weapon_6_3/词缀装配评分升行位上升/同态节流无统计副作用/开关切换无资源统计副作用/收尾关态干净基准)/修行统计词缀段UI(打磨-110 统计行文本=stats_text接口恒等含词缀4段/tooltip口径行/埋点递增_refresh同步/同态节流无副作用/收尾干净基准)/爬塔战力对比DEF行UI(打磨-111 双塔卡片战力对比行下12px DEF行:节点双塔齐全/文案=tower_power_def_line接口恒等/判定口径说明段/tooltip口径/剧毒ATK变DEF不变/飞升玩家DEF变化动态同步/复位后基准重捕获/升精英层怪物DEF动态同步/同态节流无副作用/收尾干净基准)/爬塔战力构成tooltip UI(打磨-113 战力对比行悬停五段构成:双塔tooltip=判定口径段+构成段拼接恒等/剧毒态判定口径段切减成口径/剧毒仅汇总行追加标注基础构成段不变/同态节流无副作用/收尾干净基准)/镇妖塔通关大奖顶级传说词缀UI(打磨-114 通关态段:大奖ids 3件全传说/首通发放3件传说入包与期望ids恒等/未背包满折算材料0/大奖文案含顶级传说词缀x3段/胜利浮动含大奖词缀段/守塔再胜不重发幂等/收尾清词缀残留防污染后续段)/登天梯里程碑Boss宝箱标记+胜利底部消息浮动宝箱段UI(打磨-115 怪物卡tag追加⚑Boss·里程碑宝箱仅登天梯100倍数boss层:100层含宝箱/101层普通层与镇妖塔不含/强玩家100层胜底部消息+浮动含里程碑宝箱保底稀有+段/101层胜无宝箱段/弱玩家败局不弹浮动/同态节流无副作用/收尾干净基准)/登天梯每日首胜当日状态行UI(打磨-116 爬塔页状态行追加已触发段:未触发态无段+文本=tower_status_line恒等/手动模拟当日触发态刷新键变化自动追加段/弱玩家第15层恒败败局不触发日期不变状态行保持/跨日日期=昨日段消失/状态行tooltip含每日首胜0.5x口径说明/同态节流无统计副作用/收尾干净基准防污染)/怪物卡tooltip属性偏向类型行UI(打磨-117 怪物卡tooltip含类型·偏向行仅数据层:镇妖塔第1层m41虫群·均衡型tooltip含偏向行+含偏向名/tooltip=接口同输入恒等stats字典路径不丢/登天梯第5层同口径恒等/Boss层镇妖塔50层无种无偏向行/同态节流无统计副作用/收尾干净基准)/镇妖塔主题与最终Boss卡片标记UI(打磨-118 卡片tag分层标记:第1层普通层无标记无分层行/第100层主题Boss卡片tag⚑主题Boss+名万幻妖殿主数据锚定+tooltip分层行/第50层小Boss tag恒⚑Boss旧口径+tooltip小Boss分层行/通关守塔模式最终Boss tag⚑最终Boss·镇妖塔主+tooltip最终Boss分层行/登天梯100层里程碑Boss不叠分层标记无分层行/状态行tooltip含分层口径/同态节流无统计副作用/收尾干净基准)/怪物卡tooltip精英与魔化结构行UI(打磨-119 结构行展示位:镇妖塔第1层普通层无精英标记无结构行/第10层精英卡片tag含★精英+魔化·前缀+tooltip含精英结构行=接口恒等/登天梯第510层魔化tooltip含魔化结构行=接口恒等/499层普通层无魔化前缀无结构行/500层里程碑Boss无结构行不叠/状态行tooltip含精英魔化口径/同态节流无统计副作用/收尾干净基准)/怪物卡tooltip词缀掉落概率行UI(打磨-120 掉落概率行展示位:普通层tooltip含掉率行=接口恒等+仅胜利口径/精英层含base20%行/小Boss100%1~3件段/登天梯里程碑Boss100%1~2件段/stats字典路径幂等恒等/状态行tooltip含词缀掉落口径/同态节流无副作用/收尾干净基准)/双塔卡片下一里程碑行UI(打磨-121 里程碑进度展示位:双塔卡片回合预估行下12px里程碑行/节点双塔齐全+基准文案=tower_milestone_line接口恒等含层数+余量/镇妖塔精英本层就在标注/登天梯100层下一=200层动态同步/镇妖塔通关守塔模式隐藏/tooltip口径说明/同态节流无统计副作用/收尾干净基准)/自动爬塔会话词缀段UI(打磨-122 状态行会话段词缀累计:初始0胜局无会话段/手动会话态状态行含词缀3件=auto_tower_session_text恒等/0词缀无词缀段旧口径/状态行tooltip含会话词缀口径大奖另段/同会话态节流无资源统计副作用/收尾干净基准)/爬塔战力对比胜阈值缺口行UI(打磨-123 败预测阈值行展示:双塔阈值行节点齐全/弱玩家镇妖塔第12层判定败数据锚定+登天梯第1层判定胜一败一胜双向/败预测行可见=接口恒等+胜预测行隐藏/阈值缺口数值段精确=怪物ATK x 0.85与缺口fmt_score口径/升精英层20层动态同步/剧毒缺口放大动态同步/tooltip口径+提升路径/强玩家胜预测双塔隐藏/同态节流无统计副作用/收尾干净基准)/挑战按钮tooltip动态段UI(打磨-124 点击前悬停胜败预测+胜利结算预览:双塔挑战按钮tooltip=tower_challenge_tip接口恒等/弱玩家镇妖塔第12层判定败+登天梯第1层判定胜一败一胜双向/败预测tooltip=层标题+预测败+tower_win_threshold_line阈值缺口行无结算预览/胜预测结算预览段精确=灵石表值+材料向上取整+词缀掉率=tower_affix_drop_line恒等+每日首胜未触发态+剧毒警告段恒等+无幸运不屈倍率段/升精英层20层动态同步/同态节流无资源统计副作用/收尾干净基准)/自动爬塔开关tooltip会话统计段UI(打磨-125 开关悬停会话展示位:0胜局tooltip含口径说明段=静态前缀+接口恒等/手动会话态tooltip含自动胜2场+材料+词缀四累计=接口恒等/0词缀无词缀段旧口径/双塔卡片下一里程碑ETA行UI(打磨-127 时间预期展示位:双塔ETA行节点齐全/弱玩家镇妖塔2层败预测战力不足提示=接口恒等+登天梯1层胜预测含下一里程碑ETA约99层段一败一胜双向/升层20层与登天梯100层败预测动态同步/剧毒态有效ATK降成x0.85 ETA行=接口恒等动态同步/tooltip含估算口径+7天封顶+不改判定说明/强玩家飞升道祖登天梯100层胜预测ETA行=接口恒等未封顶/镇妖塔通关守塔模式ETA行隐藏/同态节流无统计副作用/收尾干净基准)/顶栏双塔进度徽标UI(打磨-130 挂机扫视顶栏爬塔进度展示位:节点存在+同父顶栏+青色字色+手型光标+青色圆角底/初始双塔均0隐藏无热区/仅镇妖层·仅登天纪录·双塔并排·通关追加(通关)标注文案=接口恒等/tooltip=接口恒等含双塔口径+点击直达爬塔页/升层动态同步/点击切爬塔页tab4+状态行金边高亮2px+自动恢复/点击无塔统计副作用/同态节流无统计副作用/收尾双塔归零徽标隐藏/顶栏双塔进度徽标tooltip动态段UI(打磨-131 初始会话空+关开关tooltip=静态前缀/会话胜局态开开关_refresh动态同步含四累计=静态+接口恒等/败局清零无段旧口径/开关关段消失会话保留/回开恢复/同态节流无副作用/收尾双塔归零隐藏tooltip空)/自动爬塔会话新纪录累计段UI(打磨-132 状态行会话段新纪录累计展示位:初始0胜局状态行无会话段=接口恒等/会话胜局态新纪录2次最高88_refresh动态同步状态行含段单源恒等/0新纪录无段旧口径/同态节流无统计副作用/收尾状态行=接口恒等干净基准)/自动爬塔会话里程碑宝箱累计段UI(打磨-133 状态行会话段里程碑宝箱累计展示位:初始0胜局状态行无会话段=接口恒等/会话胜局态宝箱3次_refresh动态同步状态行含宝箱段+新纪录段单源恒等/0宝箱无段旧口径/同态节流无统计副作用/状态行tooltip含宝箱段口径/收尾干净基准)/各页大容器frost面板纹理换皮UI(打磨-135b 5页大容器9-slice面板底panel_frame_frost.png:5页StyleBoxTexture+纹理路径+9-slice边距+modulate深色仙侠口径/页内容布局偏移不变x5/技能行卡片仍StyleBoxFlat行高亮金框口径不变/Tab切换0..4往返功能不变/收尾恢复成就页),词缀背包格btn_secondary 9-slice换皮UI(打磨-135c-2 词缀格未选中btn_secondary.png 9-slice纹理底:四态齐全+9-slice边距非0+三态同源纹理状态由modulate区分/悬停提亮与按下压暗区分/深色仙侠底b>r口径/flat保留/选中金边M6-3口径边框2/残留flat排查:徽标族+段热区+顶栏进度条底+收集行+一键挂机flat有意保留清单断言),,进度条族9-slice换皮UI(打磨-135d 7族进度条 bar 底+填充 换 9-slice 纹理:顶栏goalbar 5px/突破条 14px/冷却条 6px x24/双塔 10px x2/收集mini 6px x6/成就 6px xN:底=bar_track.png 9-slice 裁实心带(垂直0纯拉伸防细条压扁/Xvfb实测 5-14px 全完整)+水平边距4保端倒角+modulate青灰暗调/填充=bar_fill.png 9-slice 裁亮带+modulate金青档逻辑不变/7族底纹理路径+裁带region+边距恒等/填充纹理+modulate青档/goalbar攒满动态满条+modulate不变/同态节流无统计副作用/收尾复原0填充),顶栏资源图标程序化单字徽章UI(打磨-136 顶栏 3 行 前 插 程序化 单字 徽章 [零素材 零许可风险]: 界=青/气=金/石=白 3 枚 20x20 圆角 深底 细边 Panel 壳+13px 单字, 与 顶栏 行 字色 语义 同源, 纯装饰 无热区 mouse_filter IGNORE 无 tooltip, 主资源 徽章 字符 随 飞升 翻转 气->道 [仅 翻转 重写 挂机 恒定], 同父 顶栏 HBox 顺序 在行 前 口径 保持/收尾 复原; Xvfb 商店截图 像素 入帧 复核 3 徽章 清晰 无 压扁), 3464 项, 退出码 0=通过)
 ```
 
 ## 导出 (打包)

diff --git a/PROJECT_PLAN.md b/PROJECT_PLAN.md
@@ -204,7 +204,7 @@
 ### M7-3 图标与背景（打磨-136~138，按需推进）
 - [x] 136：顶栏资源图标（灵石/灵气(道行)/境界 3 个 16-24px 小图标，Kenney icon 系列 或 程序化单字徽章「石」「气」「界」，二选一风格统一）（实现: 程序化 单字 徽章 路线 [零素材 零许可风险]: 顶栏 境界/主资源/灵石 3 行 前 各插 1 枚 20x20 圆角 深底(0.07/0.1/0.12) 细边 Panel 壳 + 内嵌 13px 单字 Label [界=青 CYAN/气=金 GOLD/石=白 WHITEISH, 与 顶栏 行 字色 语义 同源], 边色=字色 同源; 纯装饰 无热区 [mouse_filter IGNORE+无 tooltip], SHRINK_CENTER 垂直居中 防 拉伸; 主资源 徽章 字符 随 飞升 翻转 气->道 [_refresh 内 仅 翻转 时 重写 _qi_icon_char, 挂机 恒定 无 每帧 重绘, 与 主资源行 口径 同源 primary_res_name 派生]; 同父 顶栏 HBox 口径 保持 [徽章 紧跟 各自 行 标签 前, 既有 同父/布局 断言 兼容]; ui_test 新增 _assert_m136_res_icons 42 项 [3 枚 节点/Panel 壳/同父 顶栏/顺序 在行 前 x3/壳 StyleBoxFlat 圆角>=4+深底 b>=r/字符=界气石/字色=边色 语义 同源 x3/字色 青金白 语义 x3/mouse_filter IGNORE+无 tooltip+尺寸 20x20 口径 x9/初始=气/飞升 翻转=道/翻转 后 同态 节流 稳定/无 资源 副作用/收尾 复位=气], ui_test 2741->2783; Xvfb 商店截图 5 张 重跑 store/shots 入帧 [视觉 复核 3 徽章 清晰 无 压扁 错位 配色 呼应 行 字色]; selftest 10952 / stress 646 / 冒烟 0 报错 回归 全过)
 - [x] 137：主背景 程序化水墨山水（零素材零许可风险：代码画 渐变夜空 + 远山 2-3 层 视差 + 灵气粒子 缓慢上浮；低饱和度不抢前景文字；可关开关 存档 设置项）（实现: 分 2 子任务 — 137-1 数据层+渲染核心: scripts/ink_bg.gd 程序化 CanvasItem 自绘 (渐变夜空 24 带+月亮 光晕+远山 3 层 正弦 叠加 伪山形 视差 横移 远慢近快+灵气粒子 14 颗 黄金比 确定性 分布 缓慢 上浮 低 alpha 青色), 0.1s 量化 重绘 10fps 挂机 恒定 无 每帧 重绘, GameData.bg_on 存读档 旧档 默认 开, _process 缓存键 幂等 同步 开关 (关 时 节点 隐藏 零 开销); 137-2 UI 层: 修行页 自动 系列 区 末位 加 水墨背景 开关 toggle 按钮 (存档 持久化, _refresh 状态 变化 才 刷 按钮态+读档 同步, 底部消息 确认), z-order 修复 (137-1 原序 _bg 先 入树 被 全屏 不透明 BG ColorRect 遮挡 不可见, 改 BG 先/_bg 后 add_child); ui_test 新增 _assert_m137_bg_toggle 21 项 [节点/toggle/初始态 文本+pressed/z-order _bg 在 BG CR 之上/点击 切关 bg_on+_bg 隐藏+按钮态+底部消息/点击 恢复 开/同态 节流 稳定/读档 同步 按钮态+可见性/收尾 复位 开+无 资源/统计 副作用 (基准 取 load 后 快照 防 float 舍入 误差 干扰)]; selftest 10968 / ui_test 2783→2804 / stress 646 / 冒烟 0 报错)
-- [ ] 138：品质徽章 6 档 小图标（凡~神，行首 4px 色条 [打磨-41] 升级为 16px 徽章图标；素材 或 程序化 单字「凡灵玄地天仙神」徽章）
+- [x] 138：品质徽章 6 档 小图标（凡~神，行首 4px 色条 [打磨-41] 升级为 16px 徽章图标；素材 或 程序化 单字「凡灵玄地天仙神」徽章）（实现: 程序化 单字 徽章 路线 [零素材 零许可风险, 与 顶栏 资源图标 打磨-136 同 风格]: 行首 4px 品质色竖条 [打磨-41 120 技能+140 装备+10 法器 270 行] 升级为 16px 圆角 深底(0.07/0.1/0.12) 细边 Panel 壳 + 11px 单字 Label [凡/灵/玄/地/天/仙/神, 边色=字色=TIER_COLOR[tier] 语义 同源, 与 行 名字 字色 呼应], SHRINK_CENTER 垂直居中 防 行高 拉伸, mouse_filter IGNORE 纯装饰 无热区; 数据层 GameData.tier_badge_char(t) 单字 接口 (7 档 越界 钳制, 与 equip_tier_name/skill_tier_name 首字 同源 防 漂移), UI 层 main.gd _add_tier_bar → _add_tier_badge(parent, tier_idx) 单点 构建 [3 处 调用 技能/装备/法器, 法器 价格档 _item_tier_color → _item_tier_idx 返回 档索引 0/2/5/6 旧 口径 不变], 构建 一次 无 每帧 刷新 挂机 恒定; ui_test _assert_tier_bars 重写 徽章 断言 [Panel 壳+Label 字 首子节点/字符=接口 恒等/边色=TIER_COLOR/字色=边色/16px 尺寸 口径/法器 4 档 覆盖 凡玄仙神], selftest 新增 138 段 14 项 = 10982 项 [7 档 逐档 字符/越界 钳制 负数→凡 超上→神/与 equip/skill_tier_name 首字 同源 x2/只读 连读 恒定+无 资源 统计 副作用]; selftest 10982 / ui_test 3464 / stress 646 / 冒烟 0 报错 回归 全过)
 
 ### M7-4 音效（打磨-139，最后做）
 - [ ] 突破成功/失败、成就解锁、一键系列、塔胜利/新纪录 5-8 个短音效（Freesound CC-BY 选 3-5 个 古琴/磬声 类，逐件 CREDITS 署名；程序合成兜底；AudioStreamPlayer 事件挂现有 浮动提示 路径，只触发不新增逻辑）
